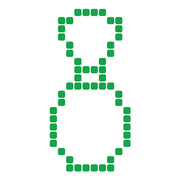
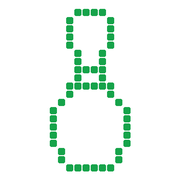
볼링핀 머리 매끄러운 돔으로 수정 (아이콘 v4)

diff --git a/index.html b/index.html
@@ -7,8 +7,8 @@
 <meta name="apple-mobile-web-app-status-bar-style" content="default">
 <title>Bowling Party</title>
 <meta name="apple-mobile-web-app-title" content="Bowling Party">
-<link rel="apple-touch-icon" href="icon.png?v=3">
-<link rel="icon" type="image/png" href="icon.png?v=3">
+<link rel="apple-touch-icon" href="icon.png?v=4">
+<link rel="icon" type="image/png" href="icon.png?v=4">
 <style>
   :root {
     --green: #16a34a;
@@ -120,7 +120,7 @@
 </head>
 <body>
 <header>
-  <h1><img src="icon.png?v=3" alt="">Bowling Party</h1>
+  <h1><img src="icon.png?v=4" alt="">Bowling Party</h1>
   <p class="prompt">팀 합산 평균점수의 표준편차를 최소화하여 팀을 편성합니다</p>
 </header>
 